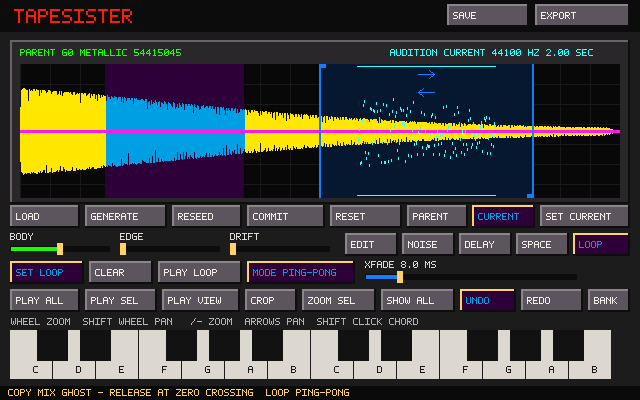
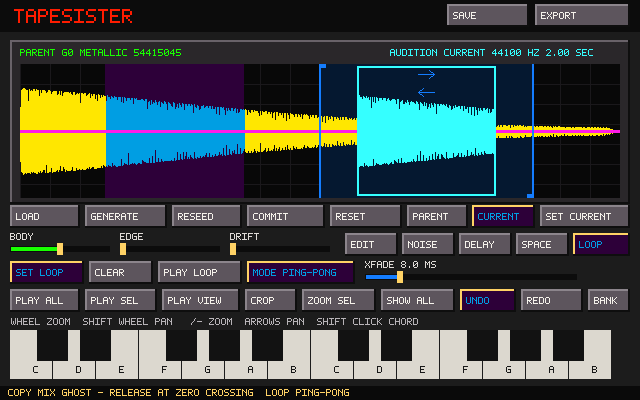
Strengthen tape ghost waveform
Render the placement preview as a full min/max envelope with a thicker cyan outline so dense audio remains clearly visible.

Changed region(s): [[0.5312, 0.21, 0.7812, 0.42]]

diff --git a/src/ts_ui.c b/src/ts_ui.c
@@ -430,22 +430,48 @@ void ts_ui_render(TsFramebuffer *fb, const TsUiState *ui, const TsInstrument *in
         int clipped_last = last_visible > TS_WAVE_X + TS_WAVE_W ?
                            TS_WAVE_X + TS_WAVE_W : last_visible;
         for (int x = clipped_first; x < clipped_last; ++x) {
-            int64_t frame = (int64_t)view_first +
-                            (int64_t)(x - TS_WAVE_X) *
-                            (int64_t)(view_last - view_first) / TS_WAVE_W;
-            int64_t source_at = frame - destination + (int64_t)ui->tape_source_first;
-            if (source_at >= (int64_t)ui->tape_source_first &&
-                source_at < (int64_t)ui->tape_source_last) {
-                float value = instrument->current.data[source_at];
+            int64_t frame_begin = (int64_t)view_first +
+                                  (int64_t)(x - TS_WAVE_X) *
+                                  (int64_t)(view_last - view_first) / TS_WAVE_W;
+            int64_t frame_end = (int64_t)view_first +
+                                (int64_t)(x - TS_WAVE_X + 1) *
+                                (int64_t)(view_last - view_first) / TS_WAVE_W;
+            int64_t source_begin = frame_begin - destination +
+                                   (int64_t)ui->tape_source_first;
+            int64_t source_end = frame_end - destination +
+                                 (int64_t)ui->tape_source_first;
+            if (source_begin < (int64_t)ui->tape_source_first)
+                source_begin = (int64_t)ui->tape_source_first;
+            if (source_end > (int64_t)ui->tape_source_last)
+                source_end = (int64_t)ui->tape_source_last;
+            if (source_end <= source_begin &&
+                source_begin >= (int64_t)ui->tape_source_first &&
+                source_begin < (int64_t)ui->tape_source_last)
+                source_end = source_begin + 1;
+            if (source_begin < source_end) {
+                float low = 1.0f;
+                float high = -1.0f;
                 int middle = TS_WAVE_Y + TS_WAVE_H / 2;
-                int y = middle - (int)(value * (TS_WAVE_H / 2 - 6));
-                rect(fb, x, y - 1, 1, 3, PAL_EFFECT);
+                int y0;
+                int y1;
+                for (int64_t source_at = source_begin; source_at < source_end; ++source_at) {
+                    float value = instrument->current.data[source_at];
+                    if (value < low) low = value;
+                    if (value > high) high = value;
+                }
+                y0 = middle - (int)(high * (TS_WAVE_H / 2 - 6));
+                y1 = middle - (int)(low * (TS_WAVE_H / 2 - 6));
+                if (y0 == y1) rect(fb, x, y0 - 1, 1, 3, PAL_EFFECT);
+                else line(fb, x, y0, x, y1, PAL_EFFECT);
             }
         }
         if (clipped_last > clipped_first) {
-            rect(fb, clipped_first, TS_WAVE_Y + 2, clipped_last - clipped_first, 1, PAL_EFFECT);
-            rect(fb, clipped_first, TS_WAVE_Y + TS_WAVE_H - 3,
-                 clipped_last - clipped_first, 1, PAL_EFFECT);
+            rect(fb, clipped_first, TS_WAVE_Y + 2, clipped_last - clipped_first, 2,
+                 PAL_EFFECT);
+            rect(fb, clipped_first, TS_WAVE_Y + TS_WAVE_H - 4,
+                 clipped_last - clipped_first, 2, PAL_EFFECT);
+            rect(fb, clipped_first, TS_WAVE_Y + 2, 2, TS_WAVE_H - 4, PAL_EFFECT);
+            rect(fb, clipped_last - 2, TS_WAVE_Y + 2, 2, TS_WAVE_H - 4, PAL_EFFECT);
         }
     }
 

diff --git a/tests/test_core.c b/tests/test_core.c
@@ -769,6 +769,19 @@ int main(void)
             if (fb.pixels[middle * TS_UI_WIDTH + x] == 0xffff1ce7u) ++zero_pixels;
         CHECK(zero_pixels > 0);
     }
+    {
+        int ghost_pixels = 0;
+        ui.tape_dragging = 1;
+        ui.tape_source_first = imported.selection_first;
+        ui.tape_source_last = imported.selection_last;
+        ui.tape_destination = (int64_t)(imported.current.frames * 3u / 5u);
+        ts_ui_render(&fb, &ui, &imported);
+        for (int y = TS_WAVE_Y; y < TS_WAVE_Y + TS_WAVE_H; ++y)
+            for (int x = TS_WAVE_X; x < TS_WAVE_X + TS_WAVE_W; ++x)
+                if (fb.pixels[y * TS_UI_WIDTH + x] == 0xff35ffffu) ++ghost_pixels;
+        CHECK(ghost_pixels > 1000);
+        ui.tape_dragging = 0;
+    }
     ui.show_keyboard = 0;
     ts_ui_render(&fb, &ui, &imported);
     CHECK(ts_ui_bank_slot_from_point(46, 341) == 0);
